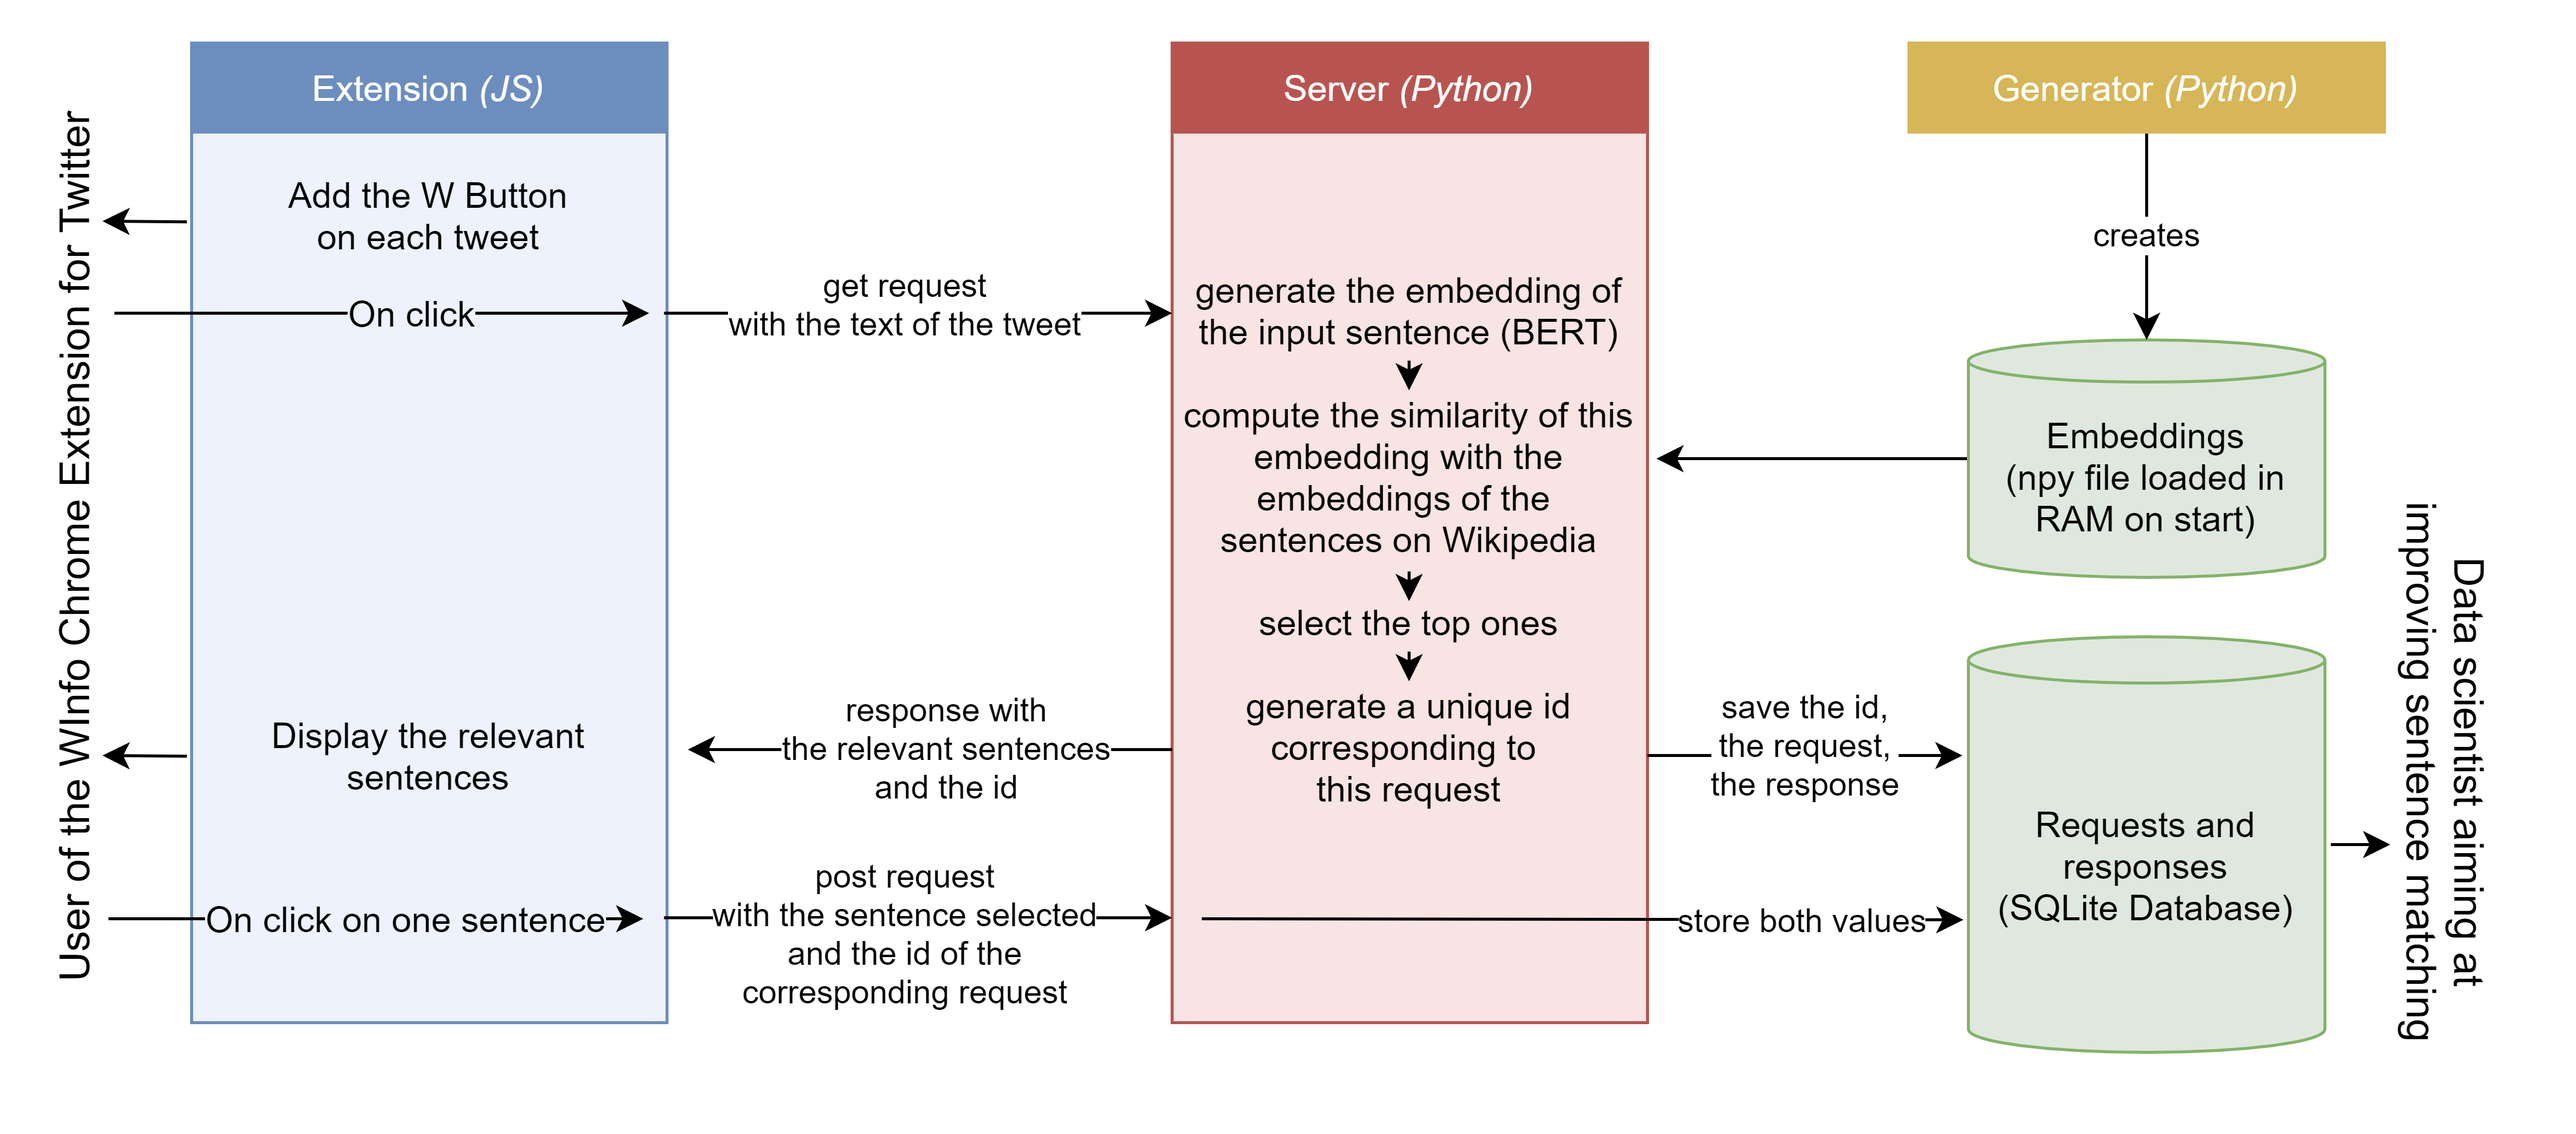
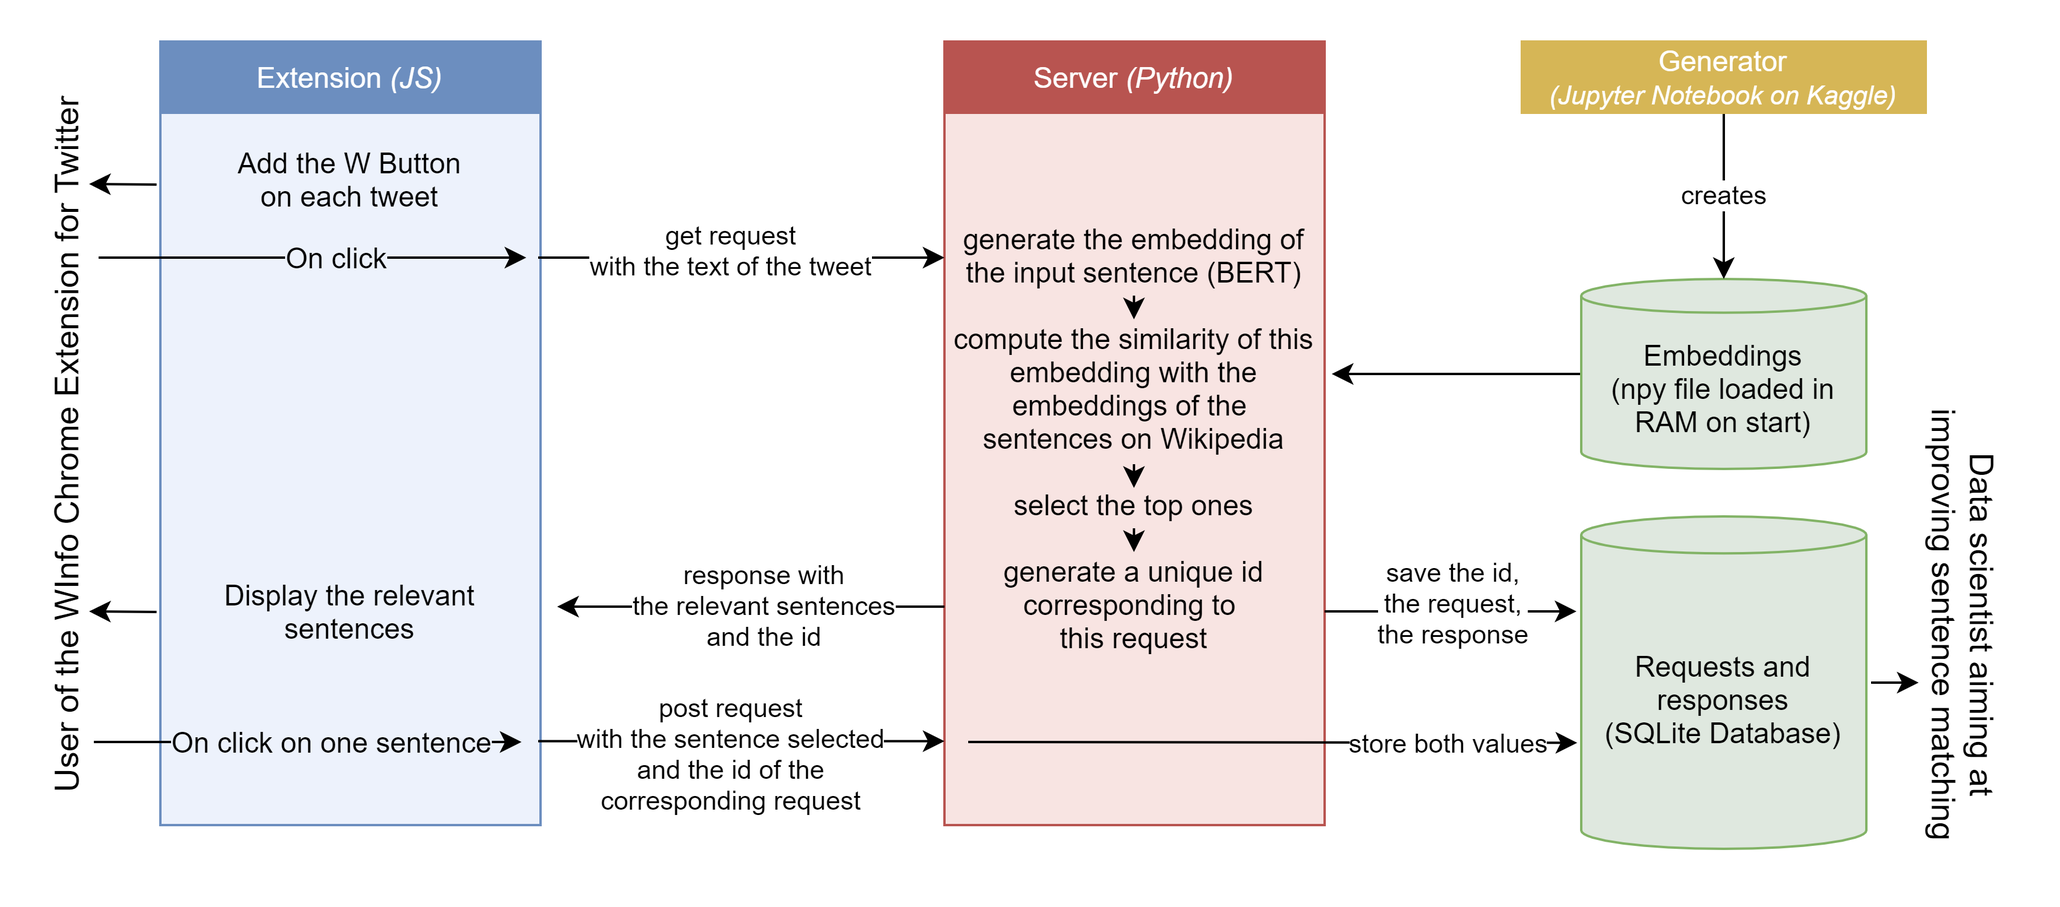
Remove the need for a generator and its connections

diff --git a/server/generator.py b/server/generator.py
@@ -11,6 +11,15 @@ from sentence_transformers import SentenceTransformer
 
 print('imports done !')
 
+sentence_loading_config = {
+    'filename':'wikipedia_en_20.csv', 
+    'nrows':None, 
+    'article_min_size':100, 
+    'first_n_sentences':10, 
+    'print_title':False, 
+    'use_nltk':True
+}
+
 def from_csv_full(filename='', # The name of the csv file. The first column contains the page id (ex : wikipedia-253648) and the second column the content of the page
                   nrows=10, # The numbers of row to read in the file. None to read the whole file
                   first_n_sentences=None, # If set to an integer n, only keeps the first n sentences of each wikipedia page
@@ -42,7 +51,7 @@ def from_csv_full(filename='', # The name of the csv file. The first column cont
     
     return sentences
 
-sentences = from_csv_full(**config.sentence_loading_config)
+sentences = from_csv_full(**sentence_loading_config)
 
 print('sentences loaded')
 

diff --git a/server/server.py b/server/server.py
@@ -25,6 +25,11 @@ sentences = []
 for i,row in sdf.iterrows():
     sentences.append((row['sentence'], row['page']))
 
+ddf = pd.read_csv(config.dict_filename+'.csv')
+id_to_title = {}
+for i,row in ddf.iterrows():
+    id_to_title[row['id']] = row['title']
+
 embeddings = np.load(config.embedding_filename+'.npy')
 embeddings = embeddings/np.linalg.norm(embeddings, axis=1, keepdims=True) # Normalize the embeddings
 print('embeddings and sentences loaded\n')
@@ -108,7 +113,7 @@ class Server(BaseHTTPRequestHandler):
             i = randint(1,2**50)
 
             results = get_most_similars(sentence, 3)
-            sentences = [r[0] for r in results]
+            sentences = [r[0]+' ('+id_to_title[str(r[1])]+')' for r in results]
             wikiurls = ['https://en.wikipedia.org/?curid='+str(r[1]) for r in results]
             response = {'id':i, 'answer':[{'sentence': s, 'wikiurl': u} for (s,u) in zip(sentences, wikiurls)]}
 

diff --git a/server/config.py b/server/config.py
@@ -1,12 +1,4 @@
-sentence_loading_config = {
-    'filename':'wikipedia_en_20.csv', 
-    'nrows':None, 
-    'article_min_size':100, 
-    'first_n_sentences':10, 
-    'print_title':False, 
-    'use_nltk':True
-}
-
 embedding_filename = 'embeddings' #.npy
 sentences_filename = 'sentences' #.csv
+dict_filename = 'index_to_name' #.csv
 database_filename = 'server' #.db
